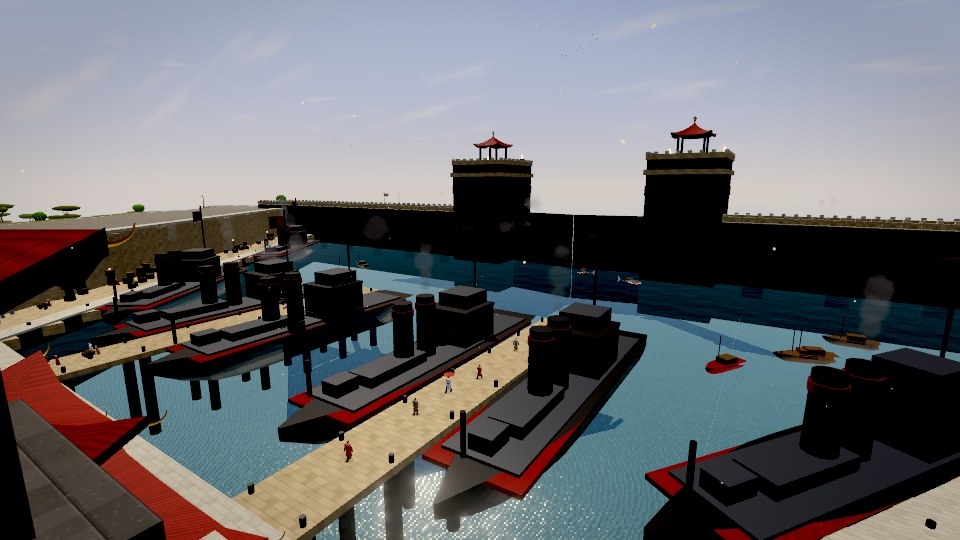
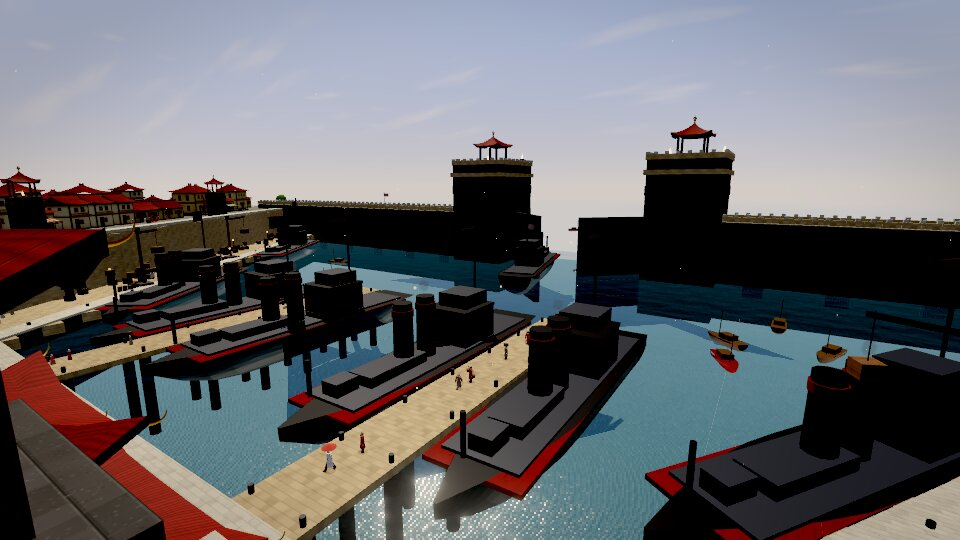
Fire Nation capital: harbour quarters, cranes and more people
The terraces flanking the harbour and the Royal Plaza were bare paving.
They now hold two rim quarters of red-roofed houses and shops on
draped streets, with watchtowers, braziers and banners. The quays get
cargo cranes, crate stacks, barrels and banner poles. The population
grows from 440 to 520; people walk the new streets, shops and doors,
and the walking graph supports separate districts.

Claude-Session: https://claude.ai/code/session_01K1qhmqdEa64kNkhqVcSUWK

diff --git a/src/world/regions/fire/fnc/city.ts b/src/world/regions/fire/fnc/city.ts
@@ -3,10 +3,10 @@ import { heightAt } from '../../../Heightfield';
 import { capitalGreen } from '../../../landforms/fireCapital';
 import type { P2 } from '../../../WorldLayout';
 import type { ArchetypeId } from '../../earth/archetypes';
-import { emberGlowMat } from '../materials';
+import { crimsonMat, emberGlowMat } from '../materials';
 import { bannerPole, brazier, hall, roof, stall, tree } from '../parts';
 import type { Cap } from './FireCapital';
-import { CONFIG, DISTRICTS, FNC, PLAZA, atAxis, atPolar, cityBlocked, footR, polarOf, ringR, sectorWeight, spokeBearings } from './layout';
+import { CONFIG, DISTRICTS, FNC, PLAZA, atAxis, atPolar, cityBlocked, footR, harborHalf, polarOf, ringR, sectorWeight, spokeBearings } from './layout';
 import { drapedStrip, groundSpan, rng } from './kit';
 
 /**
@@ -93,6 +93,7 @@ export function* buildCity(cap: Cap): Generator<unknown, void, unknown> {
     cap.mark('eastGate', -968, heightAt(-968, 968), 968);
   }
   yield* houses(cap);
+  yield* rimQuarters(cap);
   yield* market(cap);
   yield* foundries(cap);
   yield* park(cap);
@@ -201,6 +202,127 @@ function* houses(cap: Cap): Generator<unknown, void, unknown> {
   cap.mark('houses', count, 0, 0);
 }
 
+/**
+ * The harbour quarters: the terraces above the plaza's cliffs and the harbour walls, packed with
+ * cream-walled, red-roofed houses, shops and warehouses along three streets that follow the walls
+ * down towards the sea (cross streets between them), watchtowers with braziers on the cliff edge,
+ * banners at the corners. Harbor City climbing the slopes behind the plaza and the harbour.
+ */
+function* rimQuarters(cap: Cap): Generator<unknown, void, unknown> {
+  const { env } = cap;
+  const rnd = rng(CONFIG.seed ^ 0x7e11);
+  const A = env.arch;
+  rimStreets.length = 0;
+  homeFronts.length = 0;
+  const S0 = 552, S1 = 772;
+  const STREETS = [10, 40, 70];
+  const CROSS = [612, 672, 732];
+  const edge = (s: number): number => (s < FNC.harbor.s0 - 8 ? FNC.plaza.valleyHalf + 10 : harborHalf(s) + FNC.harbor.quayW + 4);
+  const ok = (x: number, z: number): boolean => !cityBlocked(x, z) && heightAt(x, z) > 4;
+  const at = (side: number, o: number, s: number): P2 => atAxis(side * (edge(s) + o), s);
+  let count = 0;
+  for (const side of [-1, 1]) {
+    const b = env.chunks.named('major', `fnc_rim${side > 0 ? 'E' : 'W'}`).builder;
+    // Streets along the walls (they end where the land does), cross streets between them.
+    for (const o of STREETS) {
+      const pts: P2[] = [];
+      for (let s = S0; s <= S1; s += 4) {
+        const p = at(side, o, s);
+        if (!ok(p.x, p.z)) break;
+        pts.push(p);
+      }
+      if (pts.length > 2) {
+        drapedStrip(b, 'paving', pts, 6, { tile: 4 });
+        rimStreets.push(pts);
+      }
+    }
+    for (const s of CROSS) {
+      const pts: P2[] = [];
+      for (const o of STREETS) {
+        const p = at(side, o, s);
+        if (ok(p.x, p.z)) pts.push(p);
+      }
+      if (pts.length > 1) {
+        drapedStrip(b, 'paving', pts, 5, { tile: 4 });
+        rimStreets.push(pts);
+      }
+    }
+    yield;
+    // Houses in four rows facing the streets: the cliff-side row, back-to-back rows along the
+    // middle street, the outer row climbing the slope.
+    const rows: Array<{ o: number; face: 1 | -1 }> = [{ o: 10, face: 1 }, { o: 40, face: -1 }, { o: 40, face: 1 }, { o: 70, face: 1 }];
+    for (const row of rows) {
+      for (let s = S0 + 3; s < S1 - 3; ) {
+        if (CROSS.some((c) => Math.abs(c - s) < 5.5)) {
+          s += 1.5;
+          continue;
+        }
+        const r = rnd();
+        const ids: ArchetypeId[] = r < 0.28 ? ['N3', 'N3b'] : r < 0.55 ? ['N4', 'N8', 'N2', 'N7'] : ['N1', 'N2', 'N5', 'N7'];
+        const arch = A[ids[Math.floor(rnd() * ids.length)]];
+        const p0 = at(side, row.o, s - 2), p1 = at(side, row.o, s + 2);
+        const dl = Math.hypot(p1.x - p0.x, p1.z - p0.z) || 1;
+        const dx = (p1.x - p0.x) / dl, dz = (p1.z - p0.z) / dl;
+        // Outward normal (away from the plaza / harbour axis).
+        let nx = dz, nz = -dx;
+        if (Math.sign(nx) !== side) {
+          nx = -nx;
+          nz = -nz;
+        }
+        const st = at(side, row.o, s);
+        const off = 3.5 + arch.spanD / 2;
+        const c = { x: st.x + nx * row.face * off, z: st.z + nz * row.face * off };
+        const yaw = Math.atan2(-nx * row.face, -nz * row.face);
+        const step = (arch.spanW + 0.3 + rnd() * 0.8) * dz;
+        s += Math.max(3, step);
+        const span = groundSpan(c.x, c.z, arch.spanW, arch.spanD, yaw);
+        if (span.max - span.min > 4.5) continue;
+        let clear = true;
+        const cs = Math.cos(yaw), sn = Math.sin(yaw);
+        for (const [lx, lz] of [[-0.5, -0.5], [0.5, -0.5], [-0.5, 0.5], [0.5, 0.5], [0, 0]] as const) {
+          const qx = c.x + lx * arch.spanW * cs + lz * arch.spanD * sn, qz = c.z - lx * arch.spanW * sn + lz * arch.spanD * cs;
+          if (!ok(qx, qz) || capitalGreen(qx, qz)) clear = false;
+        }
+        if (!clear) continue;
+        const y = span.max;
+        env.chunks.addHouse(arch, c.x, y, c.z, yaw, { tint: new THREE.Color(WALL_TINTS[Math.floor(rnd() * WALL_TINTS.length)]), roofTint: new THREE.Color(ROOF_TINTS[Math.floor(rnd() * ROOF_TINTS.length)]) });
+        if (span.max - span.min > 0.35) {
+          const fb = env.chunks.at('houses', c.x, c.z).builder;
+          fb.box('stone_tan', { x: c.x, y: (span.min - 0.4 + y) / 2, z: c.z, sx: arch.w + 0.3, sy: y - span.min + 0.4, sz: arch.d + 0.3, yaw });
+        }
+        const f = arch.spanD / 2 + 1.1;
+        const door = { x: c.x + Math.sin(yaw) * f, z: c.z + Math.cos(yaw) * f, yaw: yaw + Math.PI };
+        if (ids[0] === 'N3') shopFronts.push({ ...door, w: arch.spanW });
+        else homeFronts.push(door);
+        count++;
+      }
+      yield;
+    }
+    // Watchtowers on the cliff edge, banners and braziers at the street corners.
+    const props = env.chunks.named('props', `fnc_rim_props${side > 0 ? 'E' : 'W'}`).builder;
+    for (let s = S0 + 14; s < S1 - 10; s += 56) {
+      const c = at(side, 3.2, s);
+      if (!ok(c.x, c.z)) continue;
+      const base = heightAt(c.x, c.z) - 0.5, top = base + 9;
+      b.block('stone_dark', { x: c.x, y: base, z: c.z, sx: 4.4, sy: top - base, sz: 4.4 }, { collide: true, walkable: true });
+      b.box(crimsonMat(), { x: c.x, y: top - 1.6, z: c.z, sx: 4.6, sy: 1.1, sz: 4.6 });
+      roof(b, { x: c.x, y: top + 2.8, z: c.z, w: 3.4, d: 3.4, h: 2, style: 'pyramid', mat: 'roof_red', trim: 'gold', tips: 0.3, finial: 0.9 });
+      for (const [px, pz] of [[-1.5, -1.5], [1.5, -1.5], [1.5, 1.5], [-1.5, 1.5]] as const) b.box('wood_red', { x: c.x + px, y: top + 1.4, z: c.z + pz, sx: 0.26, sy: 2.8, sz: 0.26 });
+      brazier(b, cap.flames, { x: c.x, y: top, z: c.z, size: 0.6, style: 'bowl', collide: false });
+    }
+    for (const s of CROSS) {
+      for (const o of STREETS) {
+        const q = at(side, o + 3.6, s + 3.6);
+        if (!ok(q.x, q.z)) continue;
+        if ((o / 30 + s) % 2 < 1) bannerPole(props, { x: q.x, y: heightAt(q.x, q.z), z: q.z, yaw: 0, h: 6.5 });
+        else brazier(props, cap.flames, { x: q.x, y: heightAt(q.x, q.z), z: q.z, size: 0.7, style: 'tripod', collide: false });
+      }
+    }
+    yield;
+  }
+  cap.mark('rimHouses', count, 0, 0);
+}
+
 /** Royal Way market: stalls both sides, banners, braziers. */
 function* market(cap: Cap): Generator<unknown, void, unknown> {
   const { env } = cap;
@@ -276,6 +398,10 @@ function* foundries(cap: Cap): Generator<unknown, void, unknown> {
 
 /** Smokestack tops (smoke columns in phase 5). */
 export const foundryStacks: Array<{ x: number; y: number; z: number }> = [];
+/** The harbour quarters' streets (polylines) and house doors, for the crowds' walking graph. */
+export const rimStreets: P2[][] = [];
+export const homeFronts: Array<{ x: number; z: number; yaw: number }> = [];
+
 /** Shop fronts along the streets (a spot on the street before the door, facing it) for the crowds. */
 export const shopFronts: Array<{ x: number; z: number; yaw: number; w: number }> = [];
 /** Market stalls on the Royal Way (centre, facing the way) for sellers and the night covers. */

diff --git a/src/world/regions/fire/fnc/life.ts b/src/world/regions/fire/fnc/life.ts
@@ -7,7 +7,7 @@ import type { P2 } from '../../../WorldLayout';
 import { Acc, FigureRenderer, Pose } from '../../earth/bssFigures';
 import { NavGraph, NavTag } from '../../earth/bssNav';
 import './audio';
-import { foundryStacks, marketStalls, openRuns, shopFronts } from './city';
+import { foundryStacks, homeFronts, marketStalls, openRuns, rimStreets, shopFronts } from './city';
 import type { Emitter } from '../../../../vfx/VFX';
 import { CALDERA, CONFIG, DISTRICTS, FNC, HARBOR, PLAZA, atAxis, atPolar, cityBlocked, footR, harborHalf, polarOf, ringR, roadPath, spokeBearings } from './layout';
 import { FAcc, PALETTE, SKIN, registerFireAccessories, type Klass } from './people';
@@ -61,7 +61,7 @@ export const LIFE = {
   drill: [[7, 10], [13, 16]] as Array<[number, number]>,
   academy: [8, 17] as [number, number],
   shops: [6.5, 21] as [number, number],
-  draw: { near: 70, far: 300, farLow: 210 },
+  draw: { near: 70, far: 360, farLow: 270 },
 };
 
 /**
@@ -70,7 +70,7 @@ export const LIFE = {
  * out of a door or come round a corner the camera is not watching.
  */
 const BUBBLE = 120;
-const BUBBLE_TARGET: Partial<Record<ZoneName, number>> = { harbor: 60, plaza: 75, city: 130, market: 85, park: 36, foundry: 36 };
+const BUBBLE_TARGET: Partial<Record<ZoneName, number>> = { harbor: 75, plaza: 80, city: 130, market: 85, park: 36, foundry: 36 };
 const ZTOWN = Z.harbor | Z.plaza | Z.city | Z.market | Z.park | Z.foundry;
 const MOVABLE = new Set<Role>(['walker', 'shopper', 'porter', 'vendor', 'sitter', 'docker', 'smith']);
 
@@ -215,6 +215,7 @@ export class CapitalLife {
   private comp: Int32Array | null = null;
   /** The walking graph's main connected component (people live only there). */
   private main = 0;
+  private readonly big = new Set<number>();
   private prev: Int32Array<ArrayBuffer> = new Int32Array(0);
   /** POI node ids by tag bit (index = bit number). */
   private readonly pois = new Map<number, number[]>();
@@ -417,6 +418,8 @@ export class CapitalLife {
       const pts = [...rs].sort((x, y) => x - y).map((r) => atPolar(a, r));
       for (const run of openRuns(pts)) this.street(run, T.street | Z.city, 1.6, 10, 3);
     }
+    // The harbour quarters on the terraces above the plaza's cliffs and the harbour walls.
+    for (const pts of rimStreets) this.street(pts, T.street | T.patrol | Z.city, 2.4, 9, 3);
     // Districts: foundries (east), Zoryu Park (west), the market on the Royal Way.
     for (const n of nav.nodes) {
       if (!(n.tags & Z.city)) continue;
@@ -437,6 +440,7 @@ export class CapitalLife {
       return k >= 0 ? nav.nodes[k].tags & ZALL : Z.city;
     };
     for (const f of shopFronts) this.poi(f.x, f.z, T.shop | zoneAt(f.x, f.z), f.yaw, 9);
+    for (const f of homeFronts) this.poi(f.x, f.z, T.home | zoneAt(f.x, f.z), f.yaw, 9);
     for (const st of marketStalls) {
       const fx = Math.sin(st.yaw), fz = Math.cos(st.yaw);
       this.poi(st.x + fx * 2.1, st.z + fz * 2.1, T.stall | Z.market, st.yaw + Math.PI, 8);
@@ -595,8 +599,10 @@ export class CapitalLife {
       main = k;
     }
     this.main = main;
-    for (const z of ZONES) this.zoneNodes.set(z, this.zoneNodes.get(z)!.filter((i) => this.comp![i] === main));
-    for (const [b, l] of this.pois) this.pois.set(b, l.filter((i) => this.comp![i] === main));
+    // Every sizeable walkable area keeps people (the harbour quarters sit apart on the cliff tops).
+    for (const [k, v] of size) if (v >= 30) this.big.add(k);
+    for (const z of ZONES) this.zoneNodes.set(z, this.zoneNodes.get(z)!.filter((i) => this.big.has(this.comp![i])));
+    for (const [b, l] of this.pois) this.pois.set(b, l.filter((i) => this.big.has(this.comp![i])));
     this.spawn(ctx);
     this.buildEvents(ctx);
     const g = ctx.settings.data.graphics;
@@ -842,6 +848,7 @@ export class CapitalLife {
       const k = l[Math.floor(Math.random() * l.length)];
       const n = this.nav.nodes[k];
       if (!(n.tags & a.roam)) continue;
+      if (a.node >= 0 && this.comp![k] !== this.comp![a.node]) continue;
       if (Math.abs(n.x - a.x) + Math.abs(n.z - a.z) > maxD) continue;
       return k;
     }
@@ -851,6 +858,7 @@ export class CapitalLife {
     for (let tries = 0; tries < 8; tries++) {
       const k = nodes[Math.floor(Math.random() * nodes.length)];
       const n = this.nav.nodes[k];
+      if (a.node >= 0 && this.comp![k] !== this.comp![a.node]) continue;
       if (Math.abs(n.x - a.x) + Math.abs(n.z - a.z) < 160) return k;
     }
     return nodes[Math.floor(Math.random() * nodes.length)];
@@ -1045,7 +1053,14 @@ export class CapitalLife {
     const target = this.nav.near(s.x, s.z, 14, ZALL);
     a.toGoal = true;
     if (!this.go(a, target)) {
+      // No way there on foot (another walkable area, e.g. the harbour quarters): arrive with the crowd.
+      a.toGoal = false;
+      a.x = s.x;
+      a.y = s.y;
+      a.z = s.z;
+      a.yaw = s.yaw;
       a.st = 'goal';
+      a.node = target;
     }
   }
 
@@ -1301,7 +1316,7 @@ export class CapitalLife {
     const key = `${Math.floor(F.x / 24)},${Math.floor(F.z / 24)}`;
     if (key !== this.doorKey) {
       this.doorKey = key;
-      this.doors = this.nav.around(F.x, F.z, BUBBLE, ZTOWN).filter((k) => this.comp![k] === this.main);
+      this.doors = this.nav.around(F.x, F.z, BUBBLE, ZTOWN).filter((k) => this.big.has(this.comp![k]));
     }
     if (!this.doors.length) return;
     const N = this.nav.nodes;

diff --git a/src/world/regions/fire/fnc/harbor.ts b/src/world/regions/fire/fnc/harbor.ts
@@ -1,6 +1,6 @@
 import * as THREE from 'three';
 import { heightAt } from '../../../Heightfield';
-import { brazier, crest, roof } from '../parts';
+import { bannerPole, brazier, crest, roof } from '../parts';
 import { crimsonMat, steelDarkMat } from '../materials';
 import type { Cap } from './FireCapital';
 import { FNC, HARBOR, atAxis, harborHalf } from './layout';
@@ -199,6 +199,37 @@ export function* buildHarbor(cap: Cap): Generator<unknown, void, unknown> {
     for (let s = Q.s0 + 12; s < HARBOR.wallS - 10; s += 22) {
       const p = atAxis(side * (harborHalf(s) + Q.quayW - 2.2), s);
       props.lantern(new THREE.Vector3(p.x, Q.quayY + 3.2, p.z), { color: 'warm', post: true });
+    }
+  }
+  // Cargo cranes beside the moored warships (crimson masts, black booms over the water, a load
+  // hanging on its rope), crate stacks and barrels at their feet, banners along the quays.
+  for (const side of [-1, 1]) {
+    for (const s of [692, 722, 757]) {
+      const e = harborHalf(s);
+      const base = atAxis(side * (e + 3.2), s);
+      const yb = Q.quayY;
+      props.block('stone_dark', { x: base.x, y: yb, z: base.z, sx: 2.6, sy: 0.8, sz: 2.6 }, { collide: true, walkable: true });
+      props.cylinder(crimsonMat(), { x: base.x, y: yb + 0.8, z: base.z, r: 0.34, rTop: 0.26, h: 11.6, segments: 8 }, { collide: true, walkable: false });
+      // Boom out over the water (toward the axis), rising a little.
+      const reach = 8.5, tip = atAxis(side * (e + 3.2 - reach), s);
+      const yaw = Math.atan2(tip.x - base.x, tip.z - base.z);
+      const mid = { x: (base.x + tip.x) / 2, z: (base.z + tip.z) / 2 };
+      props.box('black_lacquer', { x: mid.x, y: yb + 12, z: mid.z, sx: 0.36, sy: 0.36, sz: reach + 1, yaw, pitch: -0.12 });
+      props.box('black_lacquer', { x: base.x, y: yb + 12.2, z: base.z, sx: 0.8, sy: 0.8, sz: 0.8 });
+      props.cylinder('iron', { x: tip.x, y: yb + 9.2, z: tip.z, r: 0.04, h: 3.6, segments: 4 });
+      props.box(s % 2 ? 'wood_dark' : 'wood', { x: tip.x, y: yb + 8.6, z: tip.z, sx: 1.6, sy: 1.2, sz: 1.6, yaw: 0.4 });
+      for (let k = 0; k < 6; k++) {
+        const q = atAxis(side * (e + 11.6 + (k % 3) * 1.4), s + 3 + Math.floor(k / 3) * 1.4);
+        props.box(k % 2 ? 'wood' : 'wood_dark', { x: q.x, y: yb + 0.6 + (k % 2) * 1.15, z: q.z, sx: 1.25, sy: 1.15, sz: 1.25, yaw: side * 0.6 }, k % 2 ? {} : { collide: true, walkable: true });
+      }
+      for (let k = 0; k < 3; k++) {
+        const q = atAxis(side * (e + 2.0), s - 3 - k * 0.9);
+        props.cylinder(k % 2 ? 'wood_dark' : 'wood', { x: q.x, y: yb, z: q.z, r: 0.4, h: 1, segments: 8 }, { collide: true, walkable: false });
+      }
+    }
+    for (let s = Q.s0 + 20; s < HARBOR.wallS - 20; s += 30) {
+      const q = atAxis(side * (harborHalf(s) + Q.quayW - 0.8), s);
+      bannerPole(props, { x: q.x, y: Q.quayY, z: q.z, yaw: 0, h: 7 });
     }
   }
   const qw = atAxis(-(harborHalf(700) + 8), 700);

diff --git a/src/world/regions/fire/fnc/layout.ts b/src/world/regions/fire/fnc/layout.ts
@@ -20,7 +20,7 @@ export const CONFIG = {
   wayW: 12,
   laneW: 3,
   /** Life (phase 5). */
-  npcs: 440,
+  npcs: 520,
   rallyCrowd: 320,
   warships: 12,
   boats: 14,
